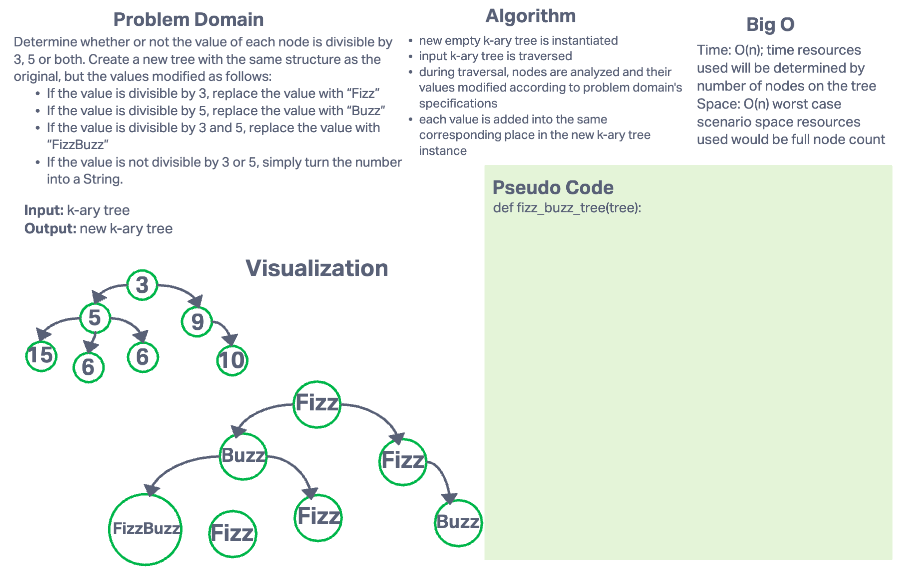
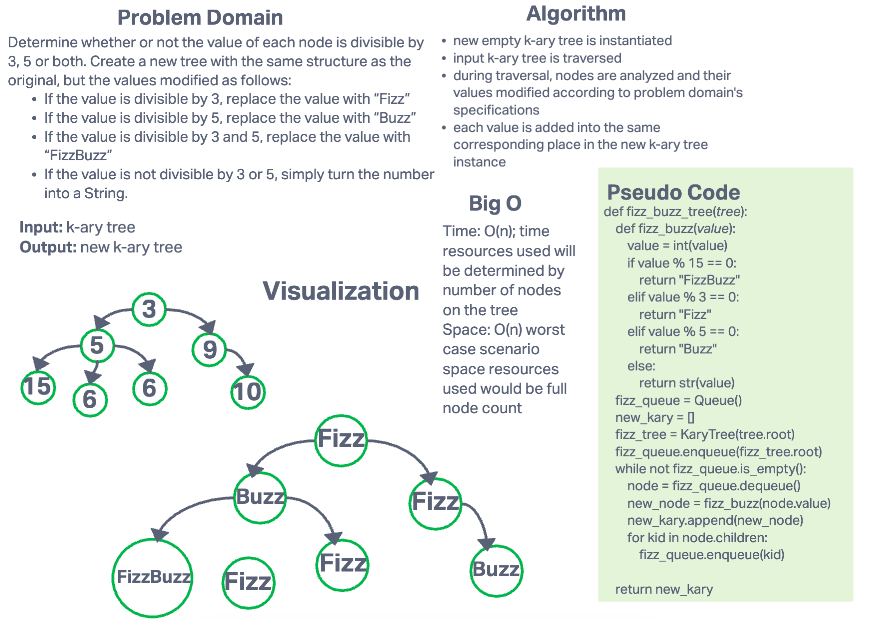
README for challenge updated

Changed region(s): [[0.0, 0.0, 0.9897, 1.0], [0.0, 0.3573, 0.2165, 0.4168]]

diff --git a/python/docs/tree_fizz_buzz/README.md b/python/docs/tree_fizz_buzz/README.md
@@ -1,0 +1,27 @@
+# Challenge Summary
+
+Determine whether or not the value of each node is divisible by 3, 5 or both.
+
+- Create a new tree with the same structure as the original, but the values modified as follows:
+  - If the value is divisible by 3, replace the value with “Fizz”
+  - If the value is divisible by 5, replace the value with “Buzz”
+  - If the value is divisible by 3 and 5, replace the value with “FizzBuzz”
+  - If the value is not divisible by 3 or 5, simply turn the number into a String.
+
+## Whiteboard Process
+
+![tree fizz buzz whiteboard](./tree_fizz_buzz_WB.png)
+
+## Approach & Efficiency
+
+### Approach
+
+- new empty k-ary tree is instantiated
+- input k-ary tree is traversed
+- during traversal, nodes are analyzed and their values modified according to problem domain's specifications
+- each value is added into the same corresponding place in the new k-ary tree instance
+
+### Efficiency
+
+- Time: O(n); time resources used will be determined by number of nodes on the tree
+- Space: O(n) worst case scenario space resources used would be full node count
